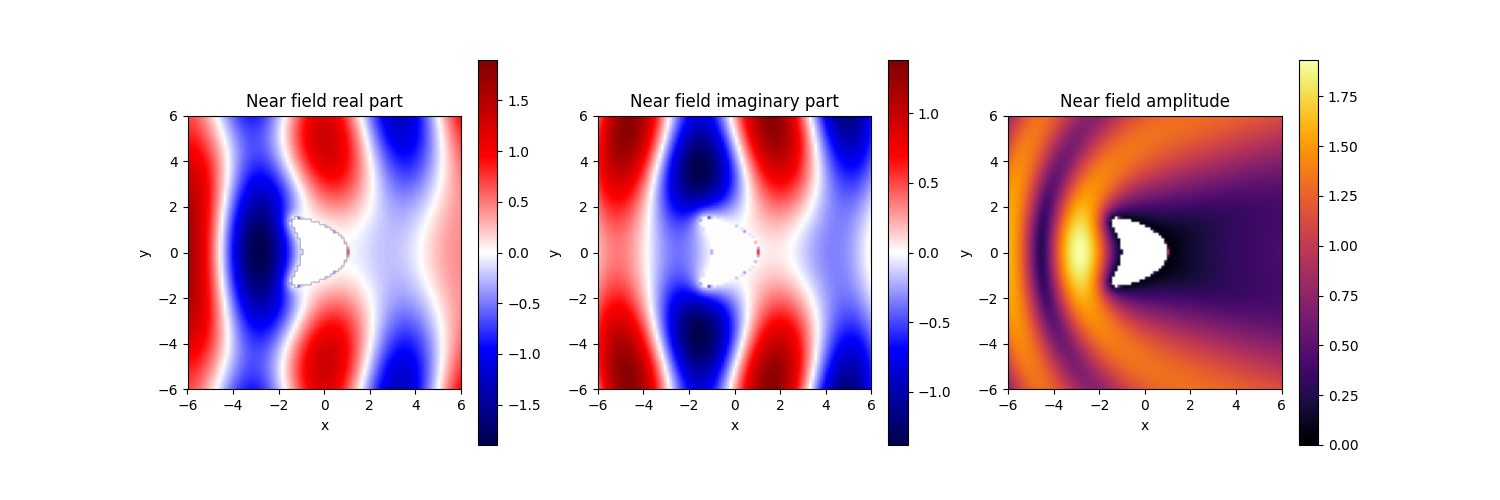
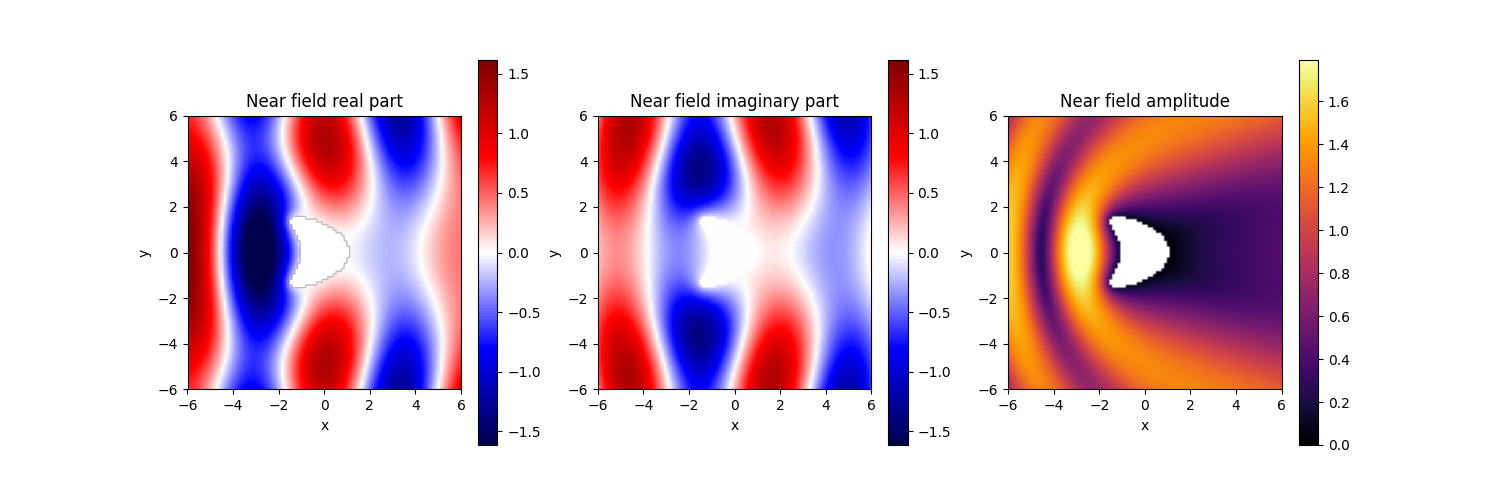
feat: optimize total field

diff --git a/src/biem_helmholtz_2d/optimization/_example.py b/src/biem_helmholtz_2d/optimization/_example.py
@@ -75,6 +75,16 @@ def example_optimization(
     incident_field_grad = plane_wave_grad(k, direction)
     t, _ = trapezoidal_quadrature(n, xp=xp, device=device, dtype=dtype)
 
+    # Basis shape perturbations, batched over all 2 * n_modes design directions
+    eye = xp.eye(n_modes, dtype=dtype, device=device)
+    zeros_n = xp.zeros((n_modes, n_modes), dtype=dtype, device=device)
+    zeros_n1 = xp.zeros((n_modes, n_modes + 1), dtype=dtype, device=device)
+    eye_cos = xp.eye(n_modes, n_modes + 1, k=1, dtype=dtype, device=device)
+    h_all = ParameterShape(
+        cos_coefs=xp.concat([eye_cos, zeros_n1], axis=0),
+        sin_coefs=xp.concat([zeros_n, eye], axis=0),
+    )
+
     def unpack(x: np.ndarray, /) -> tuple[Array, Array]:
         cos_coefs = xp.concat([
             xp.ones(1, dtype=dtype, device=device),
@@ -108,56 +118,43 @@ def example_optimization(
             point[None], u_scat, shape=shape, k=k, alpha=alpha, eta=eta, target=target
         )
 
-        # Basis shape perturbations, batched over all design directions
-        h_cos = ParameterShape(
-            cos_coefs=xp.eye(n_modes, n_modes + 1, k=1, dtype=dtype, device=device),
-            sin_coefs=xp.zeros((n_modes, n_modes), dtype=dtype, device=device),
-        )
-        h_sin = ParameterShape(
-            cos_coefs=xp.zeros((n_modes, n_modes + 1), dtype=dtype, device=device),
-            sin_coefs=xp.eye(n_modes, dtype=dtype, device=device),
-        )
         incident_grad_at_shape = incident_field_grad(shape.x(t))
-
-        def derivative(h_shape: ParameterShape, /) -> Array:
-            dr_g = -xp.sum(incident_grad_at_shape * h_shape.x(t), axis=-1)
-            slp_deriv = slp_shape_derivative(
-                point[None],
-                phi,
-                shape_x=shape.x,
-                shape_dx=shape.dx,
-                h=h_shape.x,
-                dh=h_shape.dx,
-                k=k,
-                n=n,
-            )
-            dlp_deriv = dlp_shape_derivative(
-                point[None],
-                phi,
-                shape_x=shape.x,
-                shape_dx=shape.dx,
-                h=h_shape.x,
-                dh=h_shape.dx,
-                k=k,
-                n=n,
-            )
-            dr_j = 2.0 * xp.real(
-                (xp.conj(u_scat) - xp.conj(target)) * (alpha * dlp_deriv - 1j * eta * slp_deriv)
-            )
-            return objective_derivative(
-                k=k,
-                shape=shape,
-                alpha=alpha,
-                eta=eta,
-                n=n,
-                phi=phi,
-                grad_phi_j=grad_phi_j,
-                dr_j=dr_j,
-                dr_g=dr_g,
-                h_shape=h_shape,
-            )
-
-        gradient = xp.concat([derivative(h_cos), derivative(h_sin)])
+        dr_g = -xp.sum(incident_grad_at_shape * h_all.x(t), axis=-1)
+        slp_deriv = slp_shape_derivative(
+            point[None],
+            phi,
+            shape_x=shape.x,
+            shape_dx=shape.dx,
+            h=h_all.x,
+            dh=h_all.dx,
+            k=k,
+            n=n,
+        )
+        dlp_deriv = dlp_shape_derivative(
+            point[None],
+            phi,
+            shape_x=shape.x,
+            shape_dx=shape.dx,
+            h=h_all.x,
+            dh=h_all.dx,
+            k=k,
+            n=n,
+        )
+        dr_j = 2.0 * xp.real(
+            (xp.conj(u_scat) - xp.conj(target)) * (alpha * dlp_deriv - 1j * eta * slp_deriv)
+        )
+        gradient = objective_derivative(
+            k=k,
+            shape=shape,
+            alpha=alpha,
+            eta=eta,
+            n=n,
+            phi=phi,
+            grad_phi_j=grad_phi_j,
+            dr_j=dr_j,
+            dr_g=dr_g,
+            h_shape=h_all,
+        )
         m = xp.arange(1, n_modes + 1, dtype=dtype, device=device)
         weights = (1 + alpha_reg * m**2) ** k_reg
         gradient = gradient / xp.concat([weights, weights])

diff --git a/src/biem_helmholtz_2d/cli.py b/src/biem_helmholtz_2d/cli.py
@@ -3,6 +3,8 @@ from logging import DEBUG, INFO, basicConfig, getLogger
 import typer
 from rich.logging import RichHandler
 
+from biem_helmholtz_2d.optimization._example import example_optimization
+
 app = typer.Typer()
 
 LOG = getLogger(__name__)
@@ -19,3 +21,15 @@ def _main(verbose: bool = typer.Option(False, "--verbose", "-v")) -> None:
         datefmt="[%X]",
         handlers=[RichHandler(rich_tracebacks=True)],
     )
+
+
+@app.command()
+def optimize() -> None:
+    """Compare optimization results with/without Hilbertian regularization."""
+    import numpy as np
+
+    xp = np
+    dtype = np.float64
+    device = None
+    example_optimization(xp=xp, dtype=dtype, device=device, alpha_reg=0)
+    example_optimization(xp=xp, dtype=dtype, device=device)
